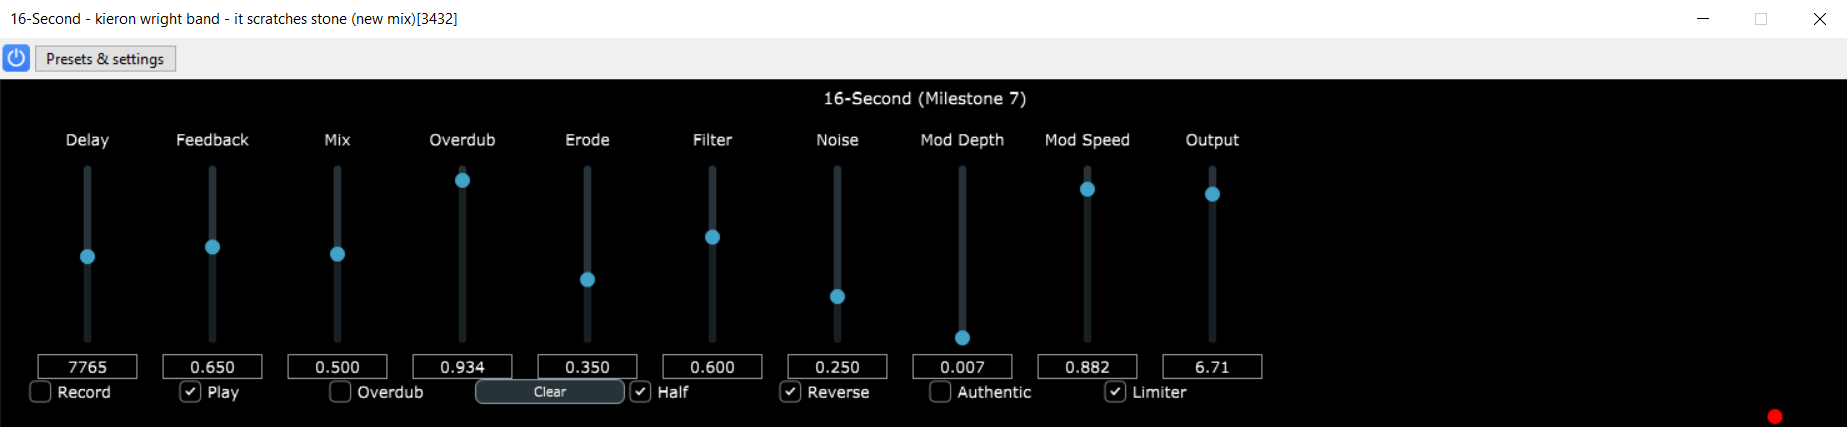
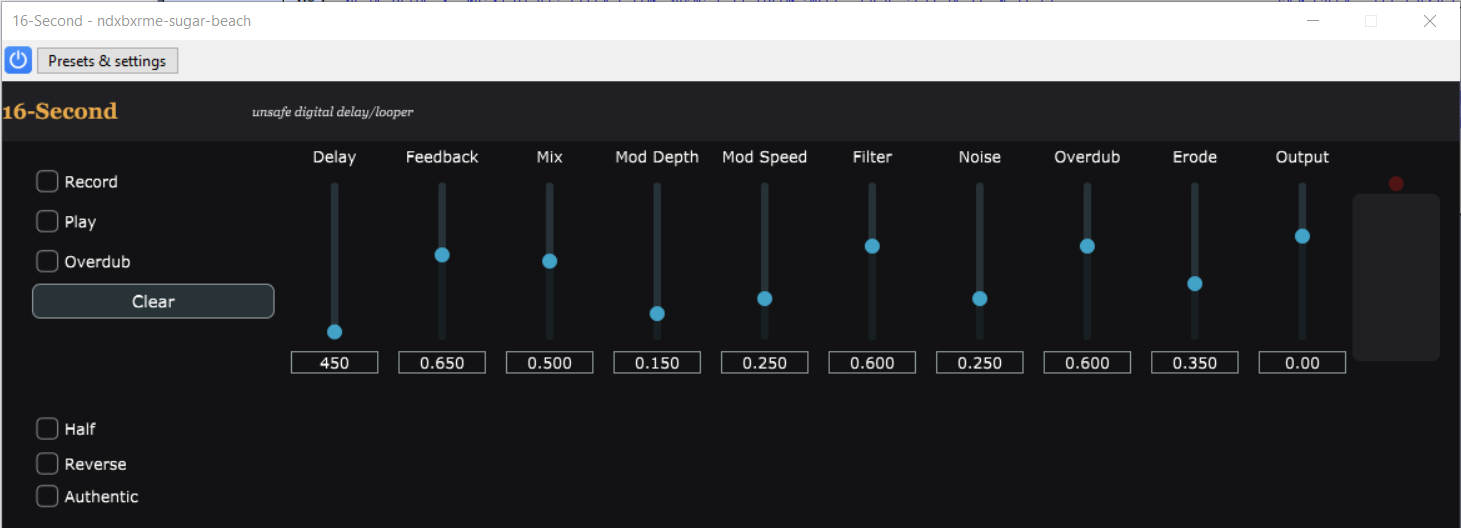
readme update

diff --git a/README.md b/README.md
@@ -1,6 +1,8 @@
 # 16-Second (VST3)
 [![CI](https://github.com/ndxbxrme/16-second/actions/workflows/ci.yml/badge.svg)](https://github.com/ndxbxrme/16-second/actions/workflows/ci.yml)
-[![Release](https://img.shields.io/github/v/release/ndxbxrme/16-second?include_prereleases=true)](https://github.com/ndxbxrme/16-second/releases)
+[![Release](https://img.shields.io/github/v/release/ndxbxrme/16-second)](https://github.com/ndxbxrme/16-second/releases)
+
+![UI Screenshot](docs/Screenshot.png)
 
 Experimental VST3 inspired by the Electro-Harmonix 16-Second Digital Delay. The focus is on the behavioral feel (unsafe time changes, destructive overdub, evolving feedback), not a circuit-perfect emulation.
 
